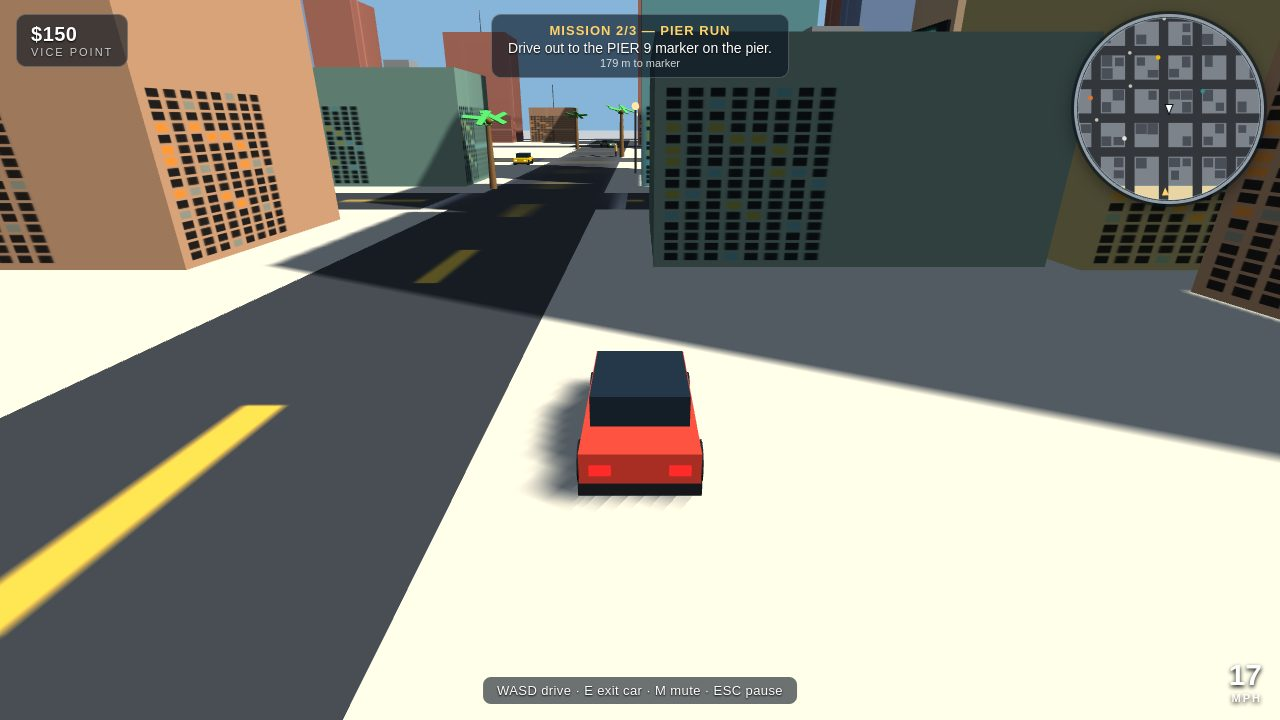
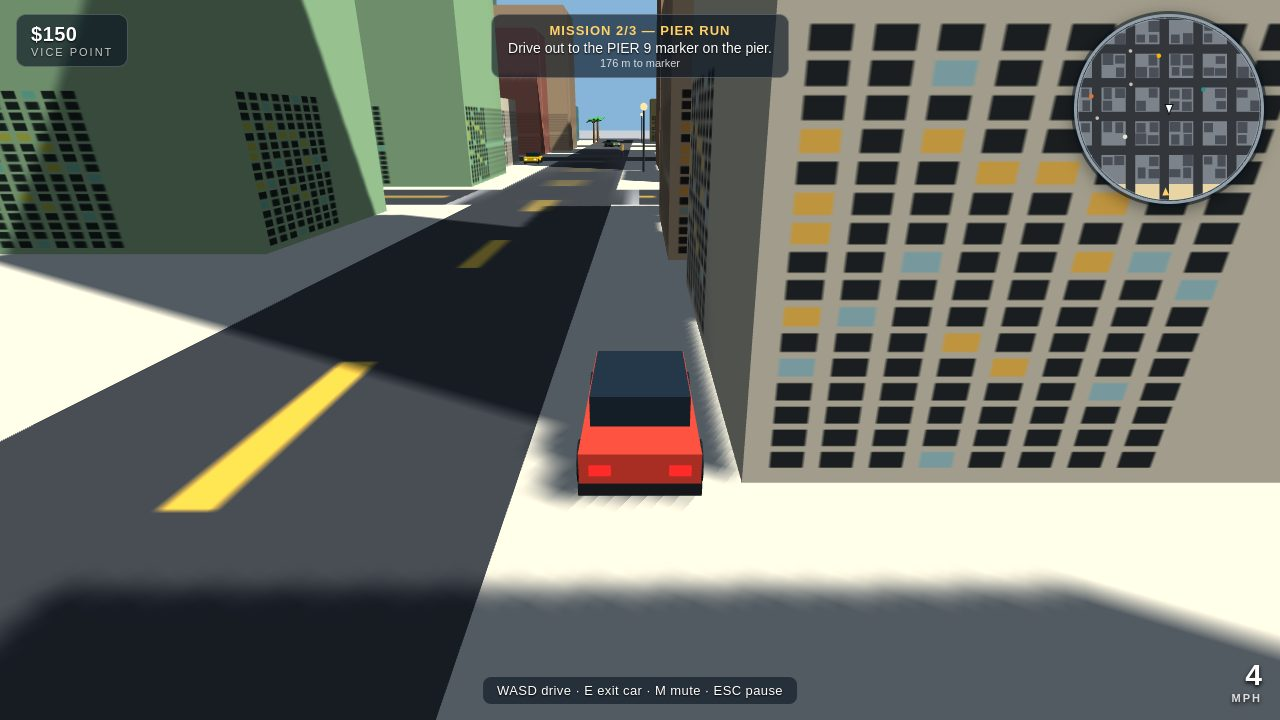
Tune city density to ~100 buildings; pin VICE sign to the beachfront rank
- 2-4 buildings per block (was 1-3) for a fuller skyline
- VICE neon on the tallest front-rank southern building, low on its
  face, so the cover shot reads it from the sand with a clear sightline
- Cover shot reframed from the beach; favicon data URI (no 404);
  debug handle exposes scene/THREE for playtest probes

diff --git a/game/src/city.js b/game/src/city.js
@@ -245,9 +245,9 @@ export function buildCity(scene) {
       walk.receiveShadow = true;
       scene.add(walk);
 
-      // 1-3 buildings per block, in 2x2 slots, so ~100 in total.
+      // 2-4 buildings per block, in 2x2 slots, so ~100 in total.
       const slots = [[-9, -9], [9, -9], [-9, 9], [9, 9]];
-      const n = 1 + Math.floor(rand() * 3);
+      const n = 2 + Math.floor(rand() * 3);
       for (let s = 0; s < n; s++) {
         const slot = slots.splice(Math.floor(rand() * slots.length), 1)[0];
         const w = 11 + rand() * 6;
@@ -334,15 +334,15 @@ export function buildCity(scene) {
   }
 
   // --- neon signs, pinned to real building faces so none of them floats ---
-  // VICE goes on the tallest building of downtown's southernmost row
-  // (z in 0..50), fronting the main north-south avenue, low enough to read
-  // from the street, so it faces the spawn instead of hiding behind the
-  // skyline.
+  // VICE goes on the tallest building of the city's southernmost row's
+  // FRONT rank (z in 130..150), facing the beach: nothing stands south of
+  // that rank, so the sightline from the sand is clear. It sits low so the
+  // chase camera (which looks down) keeps it inside the frame.
   const tallestDowntown = buildings
-    .filter((b) => Math.abs(b.x) <= 25 && b.z >= 0 && b.z <= 50)
+    .filter((b) => Math.abs(b.x) <= 25 && b.z >= 130 && b.z <= 150)
     .sort((a, b) => b.h - a.h)[0];
-  addNeon(scene, 'VICE', '#ff5da2', tallestDowntown.x, Math.min(tallestDowntown.h * 0.4, 14),
-    tallestDowntown.z + tallestDowntown.d / 2 + 0.4, 0, 1.6);
+  addNeon(scene, 'VICE', '#ff5da2', tallestDowntown.x, Math.min(tallestDowntown.h * 0.35, 6),
+    tallestDowntown.z + tallestDowntown.d / 2 + 0.4, 0, 1.0);
   const tallestWest = buildings
     .filter((b) => b.x < -60 && b.h >= 12)
     .sort((a, b) => b.h - a.h)[0];

diff --git a/game/src/main.js b/game/src/main.js
@@ -468,17 +468,16 @@ function applyShot(name) {
   $('startScreen').classList.add('hidden');
   hud.classList.remove('hidden');
   if (name === 'cover') {
-    // On the avenue at the spawn, far enough back that the VICE sign sits
-    // inside the frame (the chase camera looks down, so a close sign would
-    // be above the top edge); standing east so the whole sign clears the
-    // blue building on the west side. Red car and beacon ahead.
-    player.position.set(22, 0, 98);
+    // From the sand looking north: the VICE sign on the front-rank
+    // southern building ahead (clear sightline over the sand), red car and
+    // beacon on the road beyond it.
+    player.position.set(0, 0, 170);
     state.yaw = Math.PI;
     player.rotation.y = state.yaw;
     state.camYaw = Math.PI;
     state.camPitch = 0.12;
     const coverCar = cars[0];
-    coverCar.group.position.set(8, 0, 55);
+    coverCar.group.position.set(8, 0, 150);
     coverCar.group.rotation.y = Math.PI;
     coverCar.yaw = Math.PI;
   } else if (name === 'drive') {
